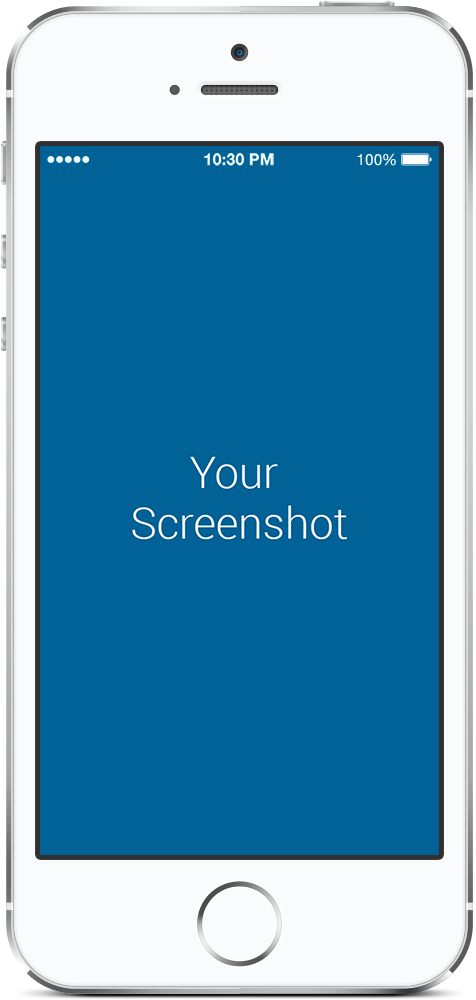
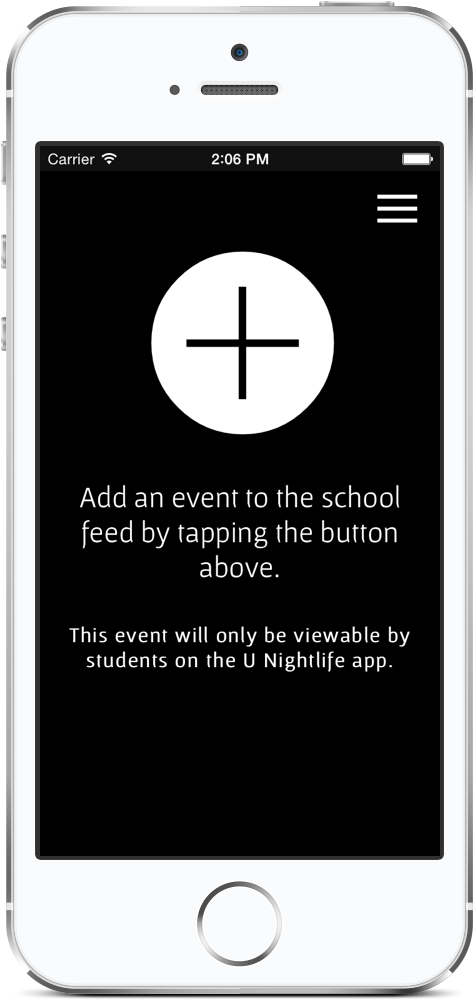
host page

diff --git a/public/css/styles.css b/public/css/styles.css
@@ -12,6 +12,10 @@ html {
     font-size: 100%;
 }
 
+.uBtn{
+font-size: 25px;
+}
+
 body {
     background: #232323;
     font-family: 'Roboto', sans-serif;
@@ -23,17 +27,38 @@ body {
     overflow-x: hidden !important;
     margin: auto !important;
 }
-@media(max-width:513px){
+@media(max-width:580px){
 .logo{
     max-width:50%;
 }
 .testimonials .feedback img{
      max-width: 80%;
 }
+.hostPhone{
+    width: 60%!important;
+}
 
 
 }
+@media(min-width:580px)and(max-width:950px) {
+ .hostPhone{
+    width: 45%!important;
+}
+}
 
+.hostBtn{
+    margin-right: 50px;
+    margin-top: 1.3%;
+    float: right;
+}
+.hostPhone{
+    width: 27%;
+    margin-bottom: -45px;
+    margin-top: 2.5%;
+}
+.hostPage{
+    background-color: #222222;
+}
 
 /* Internet Explorer 10 in Windows 8 and Windows Phone 8 Bug fix */
 
@@ -182,7 +207,13 @@ h5 {
 /*---------------------------------------
    CUSTOM BUTTON
 -----------------------------------------*/
-
+.arrow_carrot-down_alt2{
+    font-size: 40px!important;
+    /*text-align: center;*/
+}
+.thing3{
+    text-align: center;
+}
 .standard-button,
 .standard-button2 {
     font-size: 18px;
@@ -206,7 +237,7 @@ h5 {
 .standard-button i,
 .standard-button2 i {
     vertical-align: inherit;
-    margin-right: 8px;
+    margin-right: 0px;
     font-size: 20px;
 }
 
@@ -291,6 +322,7 @@ header {
             background-size: cover;
 }
 
+
 header .color-overlay {
     min-height: 900px;
 }
@@ -299,7 +331,21 @@ header .full-screen {
     width: 100%;
     height: 100px;
 }
+.header2 {
+    background: url(../images/bg-4.jpg) no-repeat;
+    -webkit-background-size: cover;
+            background-size: cover;
+}
 
+
+.header2 .color-overlay {
+    min-height: 900px;
+}
+
+.header2 .full-screen {
+    width: 100%;
+    height: 100px;
+}
 /* TOP BAR WITH NAVIGATION */
 
 .sticky-navigation {
@@ -361,6 +407,34 @@ header .intro-section .buttons {
     margin-top: 35px;
 }
 
+.header2 .only-logo .navbar {
+    background: none;
+    padding: 60px;
+}
+
+.header2 .only-logo .navbar .navbar-header {
+    float: none;
+}
+
+/* INTRO */
+
+.header2 .intro-section {
+    margin: auto;
+    padding-top: 5%;
+}
+
+.header2 .intro-section .intro {
+    color: #ffffff;
+    margin-bottom: 36px;
+}
+
+.header2 .intro-section h5 {
+    color: #ffffff;
+}
+
+.header2 .intro-section .buttons {
+    margin-top: 35px;
+}
 /*---------------------------------------
    SECTION:  FEATURES
 -----------------------------------------*/

diff --git a/views/index.html b/views/index.html
@@ -99,14 +99,15 @@
 				<span class="icon-bar"></span>
 				</button>
 
-				<a class="navbar-brand" class="logo" href="#"><img src="images/logo.gif" alt=""></a>
+				<a class="navbar-brand uBtn logo" href="/hosts"><img src="images/logo.gif" alt="">Hosts</a>
+				<!-- <a href="/hosts">Hosts</a> -->
 
 			</div>
 
 			<!-- NAVIGATION LINKS -->
 			<div class="navbar-collapse collapse" id="kane-navigation">
 				<ul class="nav navbar-nav navbar-right main-navigation">
-					<li><a href="#home">Home</a></li>
+					<li><a href="#home">Top</a></li>
 					<li><a href="#brief2">About</a></li>
 					<li><a href="#services">Features</a></li>
 					<li><a href="#screenshot-section">Screenshots</a></li>
@@ -143,7 +144,7 @@
 					<!-- BUTTON -->
 					<div class="buttons" id="download-button">
 
-						<a href="#download" class="btn btn-default btn-lg standard-button"><i class="icon-app-download"></i>Download the App</a>
+						<a href="#download" class="btn btn-default btn-lg standard-button">Download the App</a>
 
 					</div>
 					<!-- /END BUTTONS -->

diff --git a/app.js b/app.js
@@ -32,6 +32,7 @@ app.configure('development', function(){
 });
 
 app.get('/', routes.index);
+app.get('/hosts', routes.hosts);
 
 app.post('/contactSend', function(req,res){
   // create reusable transport method (opens pool of SMTP connections)

diff --git a/routes/index.js b/routes/index.js
@@ -6,3 +6,6 @@
 exports.index = function(req, res){
   res.render('index');
 };
+exports.hosts = function(req, res){
+  res.render('hosts');
+};
